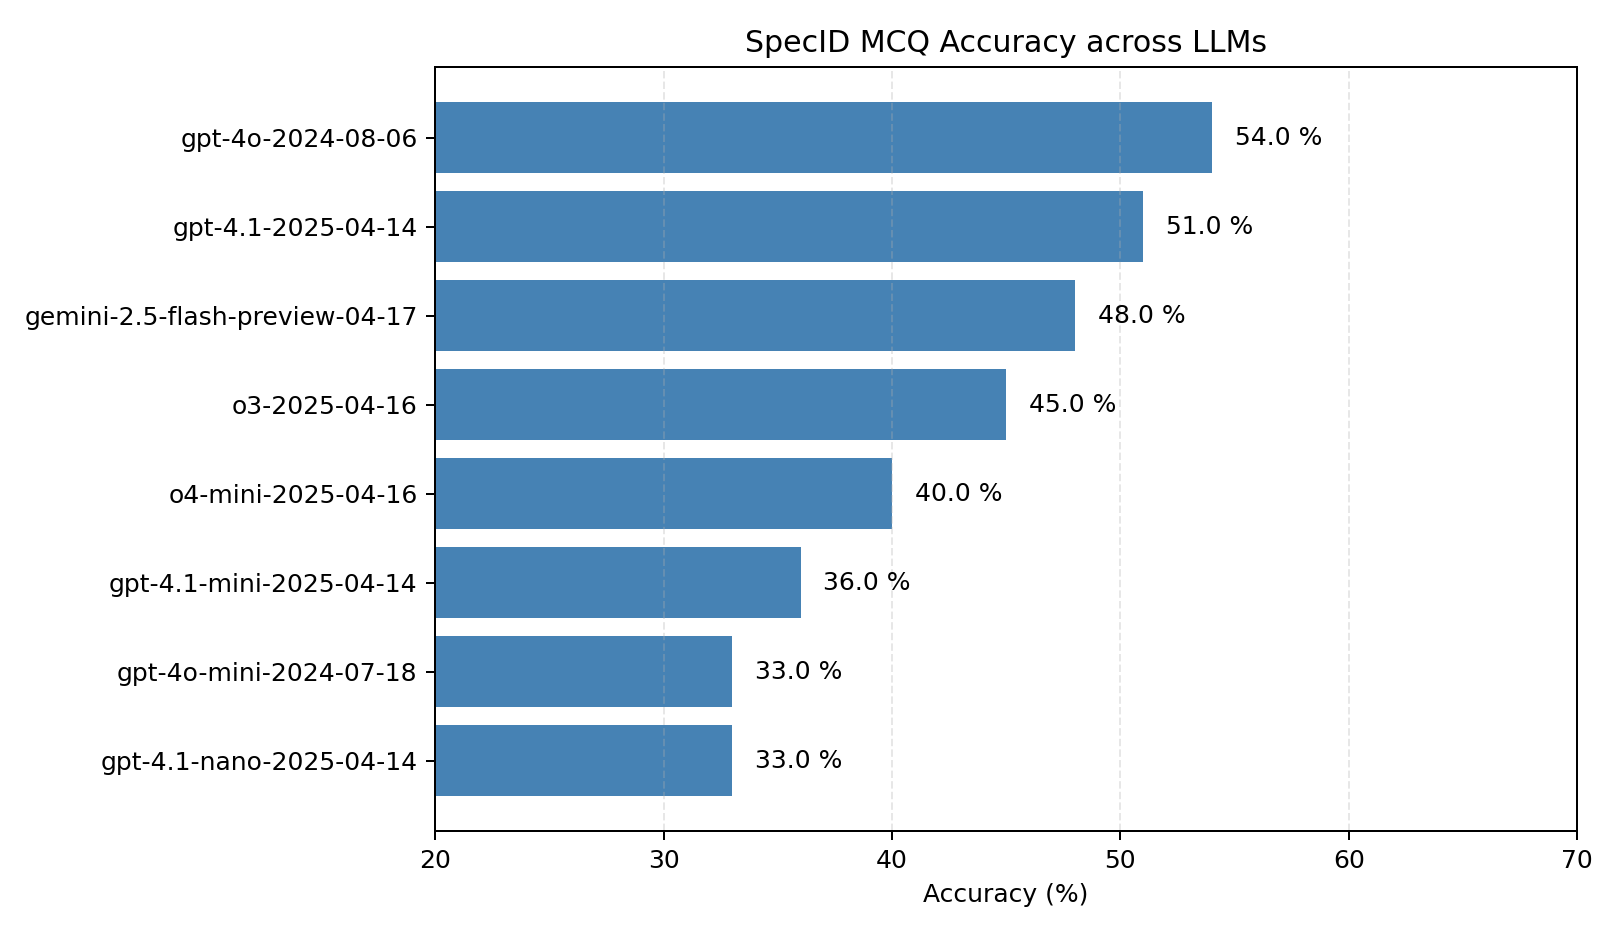
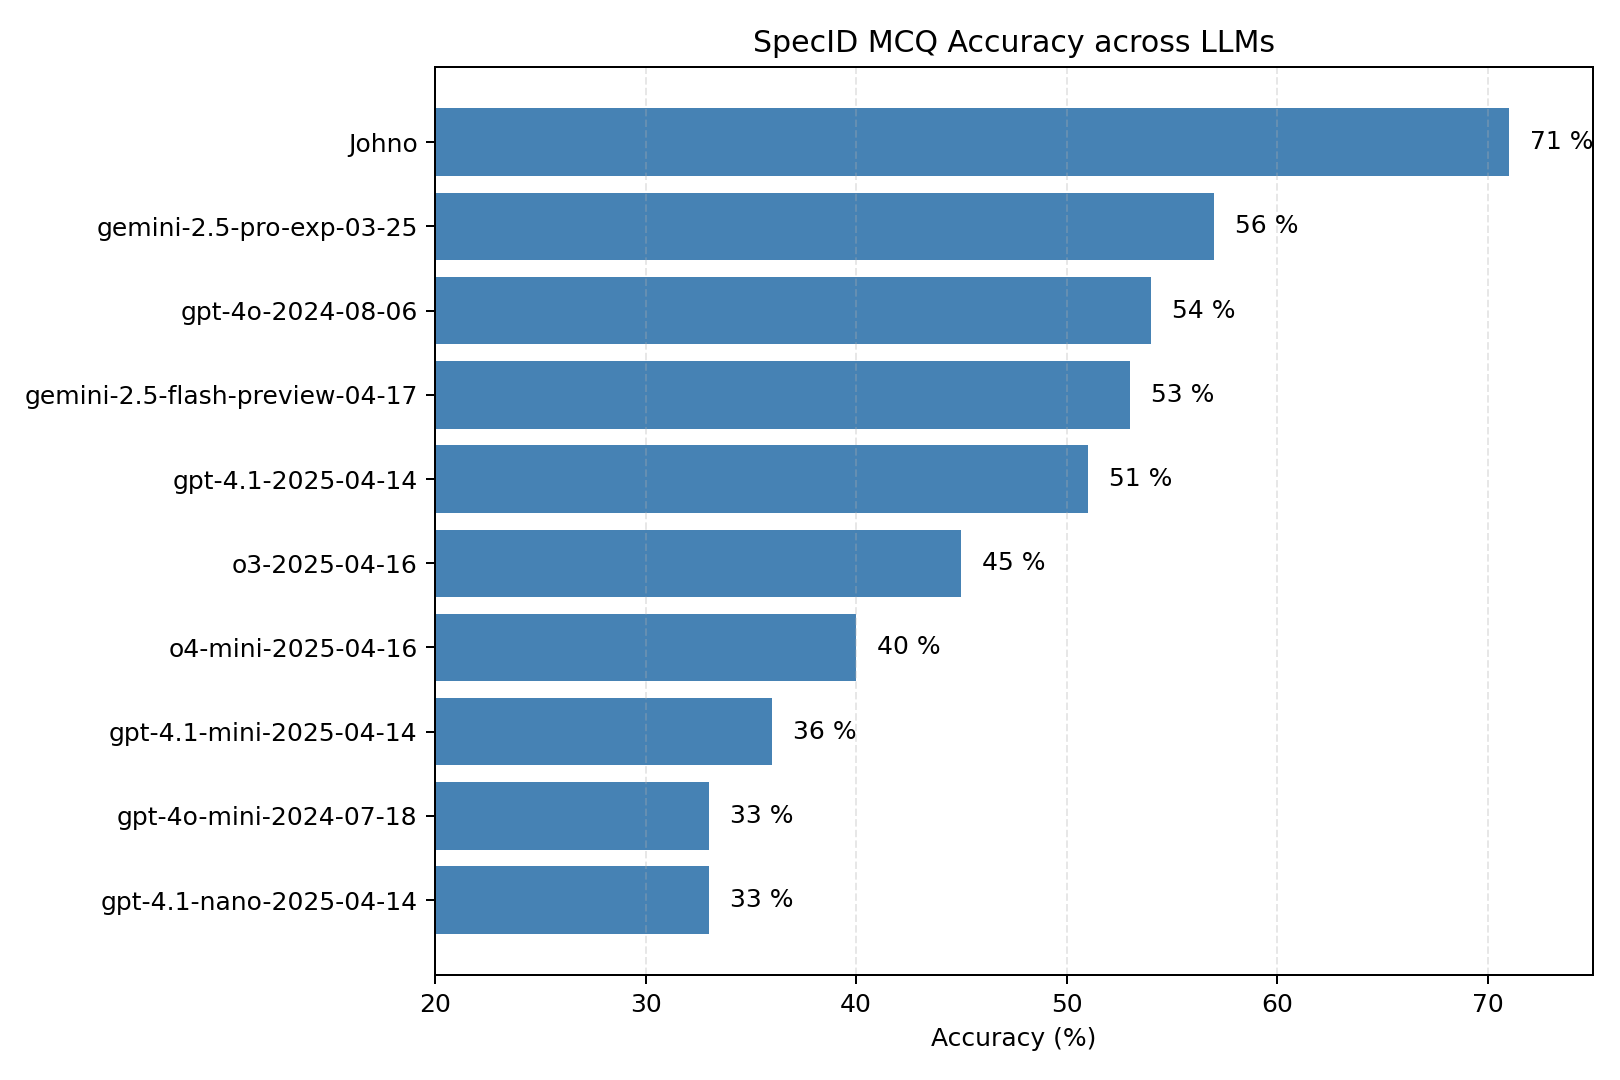
Add 2.5 flash result

diff --git a/plot_results.py b/plot_results.py
@@ -3,7 +3,7 @@ import matplotlib.pyplot as plt
 
 def load_scores(pattern="results*.json"):
     """Return list of (model_name, accuracy_percent)."""
-    records = []
+    records = [("Johno", 71)]
     for path in glob.glob(pattern):
         with open(path) as f:
             data = json.load(f)
@@ -33,13 +33,13 @@ def plot(scores, outfile="results.png"):
     ax.set_yticklabels(labels)
     ax.invert_yaxis()                     # best at top
     ax.set_xlabel("Accuracy (%)")
-    ax.set_xlim(20, 70)                   # as requested
+    ax.set_xlim(20, 75)                   # as requested
     ax.set_title("SpecID MCQ Accuracy across LLMs")
     ax.grid(axis="x", linestyle="--", alpha=0.3)
 
     # annotate bars
     for v, y in zip(values, y_pos):
-        ax.text(v + 1, y, f"{v:.1f} %", va="center")
+        ax.text(v + 1, y, f"{int(v)} %", va="center")
 
     plt.tight_layout()
     fig.savefig(outfile, dpi=180)
